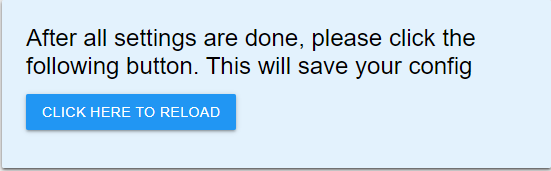
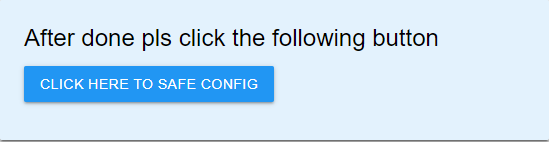
chore: release v0.4.2
readme angepasst
index_m gefixt

Changed region(s): [[0.0, 0.0, 1.0, 1.0]]

diff --git a/admin/index_m.html b/admin/index_m.html
@@ -580,7 +580,9 @@
                                 <div class="card">
                                     <div class="card-panel blue lighten-5">
                                         <span class="card-title">
-                                            After all settings are done, please click the following button. This will save your config</span>
+
+                                            If the following button is blue, it must be clicked once. This will update
+                                            the table.</span>
                                         <p><a id="fill-dynamic-table"
                                                 class="btn-save waves-effect waves-light btn disabled">Click
                                                 here to
@@ -589,16 +591,8 @@
                                     </div>
                                 </div>
                             </div>
-                            <div class="col s4">
-                                <div class="card">
-                                    <div class="card-panel red lighten-5">
-                                        <span class="card-title">
-                                            Don't forget to click "Save and Close" button</span>
-                                    </div>
-                                </div>
-                            </div>
                         </div>
-                        
+
                         <!-- dynamic table -->
                         <div class="card-panel blue lighten-5">
                             <table id="dynamicTable" class="table-values remove-last-column">
@@ -654,7 +648,7 @@
                                 <div class="card">
                                     <div class="card-panel blue lighten-5">
                                         <span class="card-title">
-                                            After all settings are done, please click the following button. This will save your config</span>
+                                            After done pls click the following button</span>
                                         <p><a id="fill-dynamic-table1"
                                                 class="btn-save waves-effect waves-light btn disabled">Click
                                                 here to
@@ -680,8 +674,9 @@
                                         <th data-name="name" data-type="text" class="header translate">*device
                                             name
                                         </th>
-                                        <th id="deviceTypeID" data-name="type" style="width: 200px;" data-type="select" style="width: 150px"
-                                            class="header translate" data-default="no device" data-options="">
+                                        <th id="deviceTypeID" data-name="type" style="width: 200px;" data-type="select"
+                                            style="width: 150px" class="header translate" data-default="no device"
+                                            data-options="">
                                             *device type</th>
                                         <!-- <th id="deviceTypeID" data-name="type" data-type="select" style="width: 150px"
                                             class="header translate" data-default="no device"
@@ -694,7 +689,8 @@
                                         <th data-name="startText" data-type="OID" class="header translate">Starttext
                                         </th>
                                         <th data-name="endText" data-type="OID" class="header translate">Endtext</th>
-                                        <th data-buttons="delete" style="width: 80px;" class="header translate">delete</th>
+                                        <th data-buttons="delete" style="width: 80px;" class="header translate">delete
+                                        </th>
                                         <th data-name="id" style="width: 0px; display: none;" class="header translate">
                                             id
                                         </th>
@@ -844,8 +840,7 @@
                                 <div class="card">
                                     <div class="card-panel red lighten-5">
                                         <span class="card-title">
-                                            Änderungen der Werte können dazu führen, dass Geräte nicht mehr richtig
-                                            erkannt werden!</span>
+                                            Changes of the values can lead to the fact that devices are no longer recognized correctly!</span>
                                     </div>
                                 </div>
                             </div>

diff --git a/README.md b/README.md
@@ -1,5 +1,5 @@
 ![Logo](admin/icon.png)
-# ioBroker.device-reminder V 0.4 - beta
+# ioBroker.device-reminder V 0.4.2 - beta
 
 **ACHTUNG**: Es ist zwingend erforderlich alle vorhandenen Instanzen zu löschen, sollte man von einer Version kleiner 0.4 kommen !!!
 
@@ -41,7 +41,7 @@ Ihr solltet die Instanz zuerst stoppen, bevor ihr Änderungen vornehmt. Unter be
 Zuerst müssen alle gewünschten Devices, Alexas, etc in der Config angelegt werden, bevor sie genutzt werden können. Wenn alle Eingaben komplett abgeschlossen sind, muss zwingend auf **"click here to reload"** geklickt werden. Erst danach sind die Geräte wirklich angelegt und können im Tab "**DEVICES**" weiter konfiguriert werden.
 
 ## device anlegen
-Zuerst muss über das "+ add device" ein neuer Eintrag erzeugt werden. Dadurch wird folgende Tabellenzeile erzeugt:
+Zuerst muss über das **"+ add device"** ein neuer Eintrag erzeugt werden. Dadurch wird folgende Tabellenzeile erzeugt:
 ![addDevice.png](admin/addDevice.png)
 
 - **device name**: Frei wählbarer Name, auch Sonderzeichen sind möglich
@@ -54,8 +54,8 @@ Zuerst muss über das "+ add device" ein neuer Eintrag erzeugt werden. Dadurch w
 Bei **Starttext** und **Endtext** kann man sich auch eine Nachricht aus einem externen Datenpunkt holen. Diese Nachricht wird mit 1 Sekunde Verzögerung aus dem Datenpunkt gelesen, nachdem sich der Status des Geräts geändert hat. Somit kann man sich per externem Script eine Nachricht erstellen lassen. Der Adapter erkennt automatisch, ob eine Nachricht aus einem Datenpunkt stammt oder ob diese manuell einfach nur eingegeben wurde. Um einen Datenpunkt auszuwählen, einfach auf die Schaltfläche mit den drei weißen Punkten klicken und dann den entsprechenden Datenpunkt auswählen. **Bitte beachten**: es kann nur entweder ein Datenpunkt **oder** eine händisch eingetragene Nachricht verwendet werden!
 
 ## Alexa erstellen
-Zuerst muss über das "+ add alexa device" ein neuer Eintrag erzeugt werden. Dadurch wird folgende Tabellenzeile erzeugt:
 ![addAlexa.png](admin/addAlexa.png)
+Zuerst muss über das **"+ add alexa device"** ein neuer Eintrag erzeugt werden. Dadurch wird folgende Tabellenzeile erzeugt:
 
 - **alexa name**: Frei wählbarer Name, auch Sonderzeichen sind möglich
 - **alexa"announcement"/"speak"**: Hier muss **zwingend** der Datenpunkt ausgewählt werden, welcher eure Alexa sprechen lässt. Um den Datenpunkt auszuwählen, einfach auf die Schaltfläche mit den drei kleinen weißen Punkten klicken.
@@ -66,8 +66,8 @@ Mit den 4 letzten Feldern kann ein Zeitraum erstellt werden, in dem eure Alexa S
 - **"time inactive min"**: Endzeit in Minuten
 
 ## SayIt device erstellen
-Zuerst muss über das "+ add sayit device" ein neuer Eintrag erzeugt werden. Dadurch wird folgende Tabellenzeile erzeugt:
 ![addSayit.png](admin/addSayit.png)
+Zuerst muss über das **"+ add sayit device"** ein neuer Eintrag erzeugt werden. Dadurch wird folgende Tabellenzeile erzeugt:
 
 - **sayit name**: Frei wählbarer Name, auch Sonderzeichen sind möglich
 - **sayit path"../text"**: den Datenpunkt "text" im jeweiligen sayIt device Ordner auswählen. Hier wird die Textausgabe hingesendet.
@@ -78,8 +78,8 @@ Zuerst muss über das "+ add sayit device" ein neuer Eintrag erzeugt werden. Dad
 - **"time inactive min"**: Endzeit in Minuten
 
 ## whatsapp user erstellen
-Zuerst muss über das "+ add whatsapp user" ein neuer Eintrag erzeugt werden. Dadurch wird folgende Tabellenzeile erzeugt:
 ![addWhatsapp.png](admin/addWhatsapp.png)
+Zuerst muss über das **"+ add whatsapp user"** ein neuer Eintrag erzeugt werden. Dadurch wird folgende Tabellenzeile erzeugt:
 
 - **whatsapp name**: Frei wählbarer Name, auch Sonderzeichen sind möglich
 - **whatsapp path"sendMessage"**: den Datenpunkt "sendMessage" im jeweiligen whatsapp Ordner auswählen. Hier wird die Textausgabe hingesendet.
@@ -92,10 +92,8 @@ Wenn alle Geräte und Messenger eingefügt wurden, muss über den Save Button **
 Der Button wird nur aktiv, wenn neue Geräte eingefügt oder bestehende geändert werden!
 
 ## Devices konfigurieren
-![devices.png](admin/devices.png)
-
-Hier werden nun, nachdem man auf den Button "**click here to reload**" auf der Config Seite geklickt hatte, alle angelegten devices angezeigt und können weiter konfiguriert werden.
 ![configureDevices.png](admin/configureDevices.png)
+Hier werden nun, nachdem man auf den Button "**click here to reload**" auf der Config Seite geklickt hatte, alle angelegten devices angezeigt und können weiter konfiguriert werden.
 
 - **active**: Ist standardmäßig aktiviert. Hier kann man ein Device vorrübergehend deaktivieren, so dass es keine Benachrichtigungen mehr sendet
 - **device name**: wird automatisch angelegt
@@ -118,10 +116,8 @@ Nachdem nun auf "**Speichern und schliessen**" geklickt wurde, wird unter *Objek
 angezeigt wird.
 
 ## device type konfigurieren
-![type.png](admin/type.png)
-**Achtung**: Änderungen der Werte können dazu führen, dass Geräte nicht mehr Ordnungsgemäß erfasst werden und es so zu Falschmeldungen kommt. 
-
 ![default-devices.png](admin/default-devices.png)
+**Achtung**: Änderungen der Werte können dazu führen, dass Geräte nicht mehr Ordnungsgemäß erfasst werden und es so zu Falschmeldungen kommt. 
 
 In der ersten Tabelle werden die "default" Werte angezeigt. Diese Werte wurden über einen Zeitraum von mehreren Monaten ermittelt und sollten nicht angepasst werden. Ich erkläre die Bedeutung der einzelnen Werte trotzdem.
 - **starting value**: Startwert in Watt der überschritten werden muss, damit das Gerät als gestartet erkannt werden kann
@@ -152,6 +148,10 @@ Zur Funktion einfach bei "**default devices**" hier drüber lesen.
 	Placeholder for the next version (at the beginning of the line):
 	### __WORK IN PROGRESS__
 -->
+
+### 0.4.2 (2020-11-12)
+* (xenon-s) readme angepasst 
+* (xenon-s) index_m gefixt
 
 ### 0.4.1 (2020-11-12)
 * (xenon-s) bugfix: falscher Status wurde angezeigt, wenn Programmabbruch erkannt wurde
